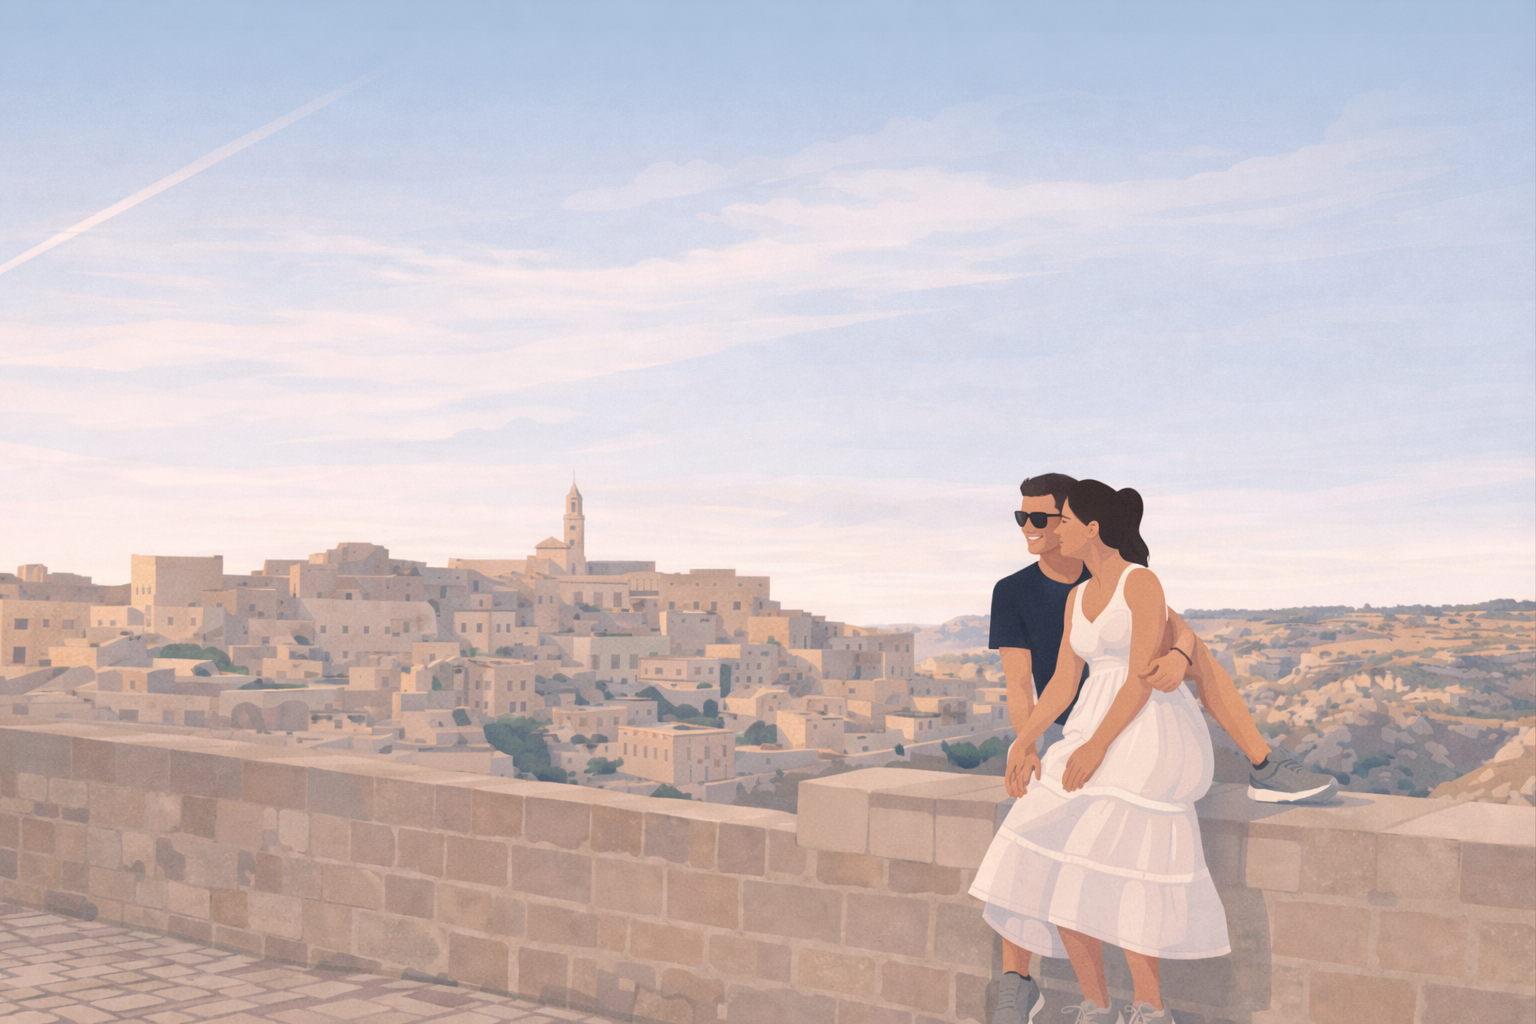
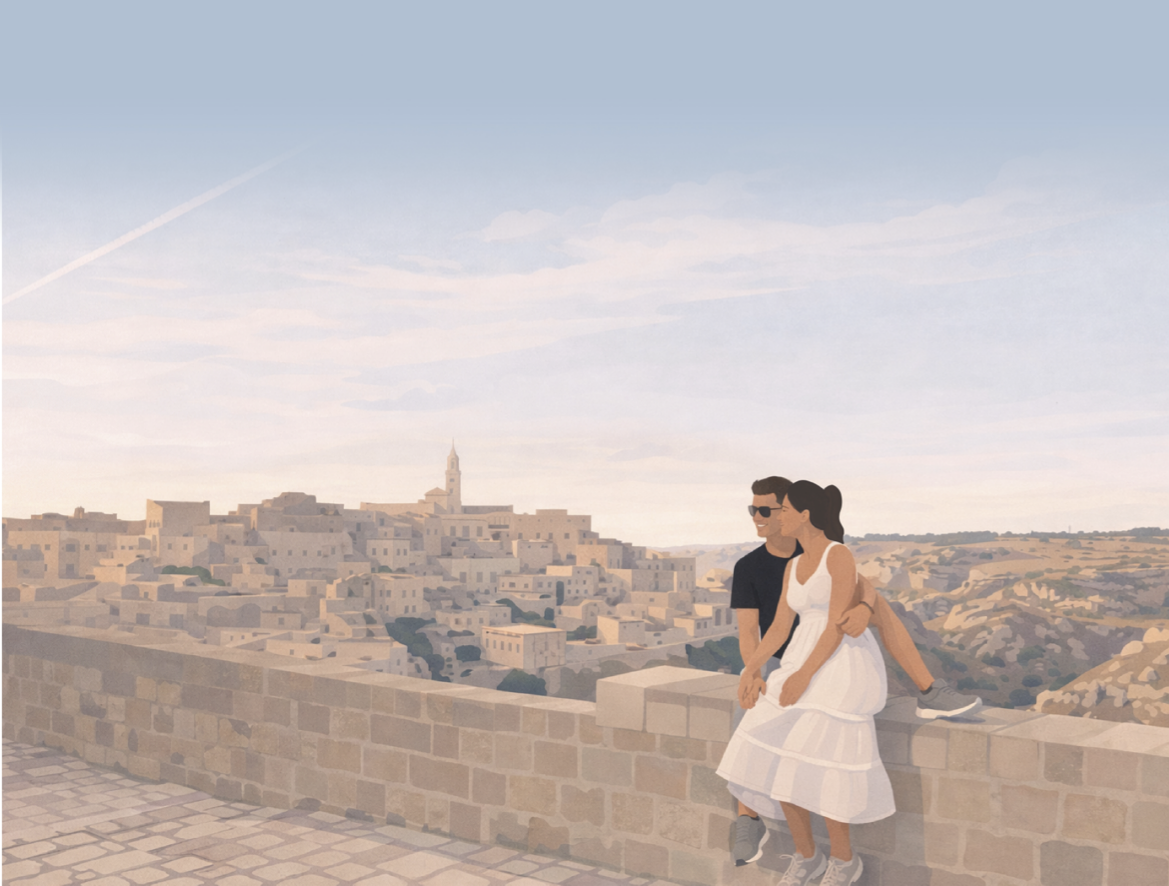
•  el mundo 🌍 que está de fondo no se ve muy bien, podríamos hacerlo

diff --git a/src/app/boda-carla-said/page.tsx b/src/app/boda-carla-said/page.tsx
@@ -44,7 +44,7 @@ const translations = {
     tarifaPreferencial: "Contamos con una tarifa preferencial para nuestros invitados.",
     confirmar: "Confirmar asistencia",
     rsvpTexto: "Favor de confirmar antes del 1 de Noviembre",
-    fraseFinal: "L'amore accorcia le distanze e unisce mondi lontani",
+    fraseFinal: "El amor acorta las distancias y une mundos lejanos",
     zihua: "Zihuatanejo, Guerrero, México",
     domingo: "Domingo, 20 de diciembre de 2026",
     vestimenta: "Vestimenta",
@@ -92,8 +92,8 @@ const translations = {
     horas: "Ore",
     minutos: "Secondi",
     segundos: "Secondi",
-    faltaPoco: "Manca poco al nostro per siempre",
-    acompananos: "Accompagnaci in questo momento",
+    faltaPoco: "Manca sempre meno al nostro per sempre",
+    acompananos: "Sii con noi in questo momento",
     calendario: "Aggiungi al calendario",
     itinerario: "Itinerario",
     llegada: "Arrivo al club de playa",
@@ -102,24 +102,24 @@ const translations = {
     fin: "Fine dell'evento",
     ubicacion: "Posizione",
     verMapa: "Visualizza posizione",
-    hospedaje: "Hotel Sede",
+    hospedaje: "Hotel consigliato",
     reservar: "Prenotazioni a breve",
     reservaMasAdelante: "La prenotación sarà disponibile più avanti.",
     verWeb: "Sito web",
     tarifaPreferencial: "Abbiamo una tarifa preferenziale per i nostri ospiti.",
-    confirmar: "Conferma participación",
+    confirmar: "Conferma partecipazione",
     rsvpTexto: "Si prega di confermare entro il 1 novembre",
     fraseFinal: "L'amore accorcia le distanze e unisce mondi lontani",
     zihua: "Zihuatanejo, Guerrero, Messico",
     domingo: "Domenica, 20 dicembre 2026",
     vestimenta: "Abbigliamento",
     formalLino: "Formale in lino",
-    waMessage: "Ciao Carla e Said! Sono molto entusiasta per il vostro matrimonio. Vorrei confermare la mia participación per festeggiare con voi il 20 dicembre 2026 a Zihuatanejo. A presto!",
+    waMessage: "Ciao Carla e Said! Sono molto entusiasta per il vostro matrimonio. Vorrei confermare la mia partecipazione per festeggiare con voi il 20 dicembre 2026 a Zihuatanejo. A presto!",
     venue: "Club de Playa Garrobo",
     trajeSinCorbata: "Abito senza cravatta",
     vestidoLargo: "Abito sotto le ginocchia",
     mesaRegalos: "Lista Nozze",
-    regalosFrase: "Il regalo più grande è la vostra presencia, ma se desiderate farci un pensiero, apprezzeremmo che sia tramite bonifico. Vivere in Italia rende difficile il trasporto di regali fisici, perciò questo gesto ci aiuterà molto a creare la nostra casa lì.",
+    regalosFrase: "Il regalo più grande è la vostra presenza. Per chi volesse farci un pensiero, sarà per noi un aiuto prezioso nel creare la nostra casa in Italia.",
     paypal: "PayPal",
     clabe: "CLABE (Messico)",
     iban: "IBAN (Europa)",
@@ -140,11 +140,11 @@ const translations = {
     guerreroCap: "GUERRERO",
     mexicoCap: "MESSICO",
     faqs: [
-      { q: "Quali sono i requisiti per viaggiare in Messico dall'Italia?", a: "I cittadini italiani non hanno bisogno di visto per recarsi in Messico como turisti. È richiesto un passaporto valido, un biglietto di ritorno e la compilazione del modulo migratorio all'arrivo." },
+      { q: "Quali sono i requisiti per viaggiare in Messico dall'Italia?", a: "I cittadini italiani non hanno bisogno di visto per recarsi in Messico come turisti. È richiesto un passaporto valido, un biglietto di ritorno e la compilazione del modulo migratorio all'arrivo." },
       { q: "In quale aeroporto devo arrivare?", a: "L'aeroporto consigliato è l'Aeroporto Internazionale di Ixtapa-Zihuatanejo (ZIH), il più vicino all'hotel e al luogo dell'evento. È possibile arrivare anche via Città del Messico (CDMX) e prendere un volo nazionale per Zihuatanejo." },
       { q: "Come arrivo dall'aeroporto all'hotel o al evento?", a: "Dall'aeroporto potete spostarvi con taxi autorizzati, trasporti privati o servizio dell'hotel. I tragitti son brevi e semplici." },
       { q: "Dove si svolgerà il matrimonio?", a: "Il matrimonio si terrà presso il Club de Playa Garrobo, a Zihuatanejo, Guerrero, Messico. La posizione esatta può essere consultata sulla mappa disponible su questa pagina." },
-      { q: "L'aeroporto, l'hotel e il luogo dell'evento sono vicini?", a: "Sì. Zihuatanejo è una ciudad piccola e i trasferimenti durano solitamente tra i 15 y i 30 minuti." },
+      { q: "L'aeroporto, l'hotel e il luogo dell'evento sono vicini?", a: "Sì. Zihuatanejo è una città piccola e i trasferimenti durano solitamente tra i 15 e i 30 minuti." },
       { q: "Com'è il clima a dicembre?", a: "Dicembre ha un clima caldo e piacevole, con temperature approssimative tra i 22 °C e i 30 °C e una probabilità di pioggia molto bassa." },
       { q: "Quale valuta si usa e come consigliate di pagare?", a: "La valuta ufficiale è il peso messicano (MXN). Si consiglia di utilizzare le carte e portare con sé dei contanti per le piccole spese." },
       { q: "È sicuro viaggiare a Zihuatanejo?", a: "Zihuatanejo è una destinazione turistica tranquilla. Si consiglia di seguire le precauzioni di base e utilizzare trasporti autorizzati." },
@@ -467,7 +467,7 @@ export default function WeddingPage() {
 
       {/* Frase y Confirmación */}
       <section className="py-24 md:py-40 relative overflow-hidden bg-[#fcfaf7]">
-        <div className="absolute inset-0 z-0 opacity-15">
+        <div className="absolute inset-0 z-0 opacity-30">
           <Image 
             src={quoteBgImage?.imageUrl || "/foto2.png"} 
             alt="Background Confirmación" 
@@ -617,9 +617,6 @@ export default function WeddingPage() {
               <h2 className={cn(serif.className, "text-5xl md:text-7xl italic text-[#5c6b5c]")}>
                 {t.vestimenta}
               </h2>
-              <p className="text-[10px] uppercase tracking-[0.4em] opacity-50 font-bold">
-                {t.formalLino}
-              </p>
             </div>
 
             <div className="relative w-full max-w-[220px] md:max-w-[280px] aspect-[4/5] -mt-6 md:-mt-10 transition-all duration-700 z-[1]">
